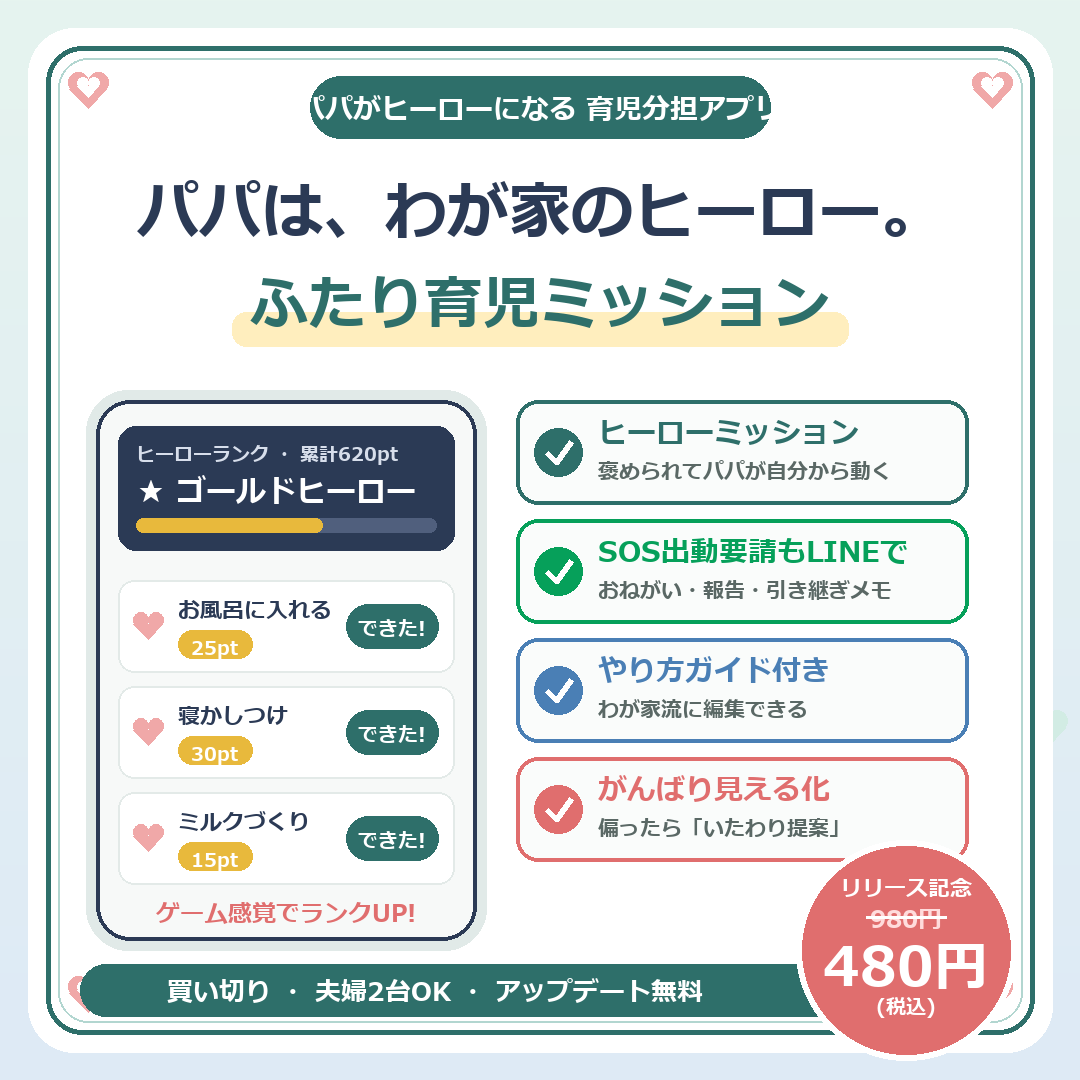
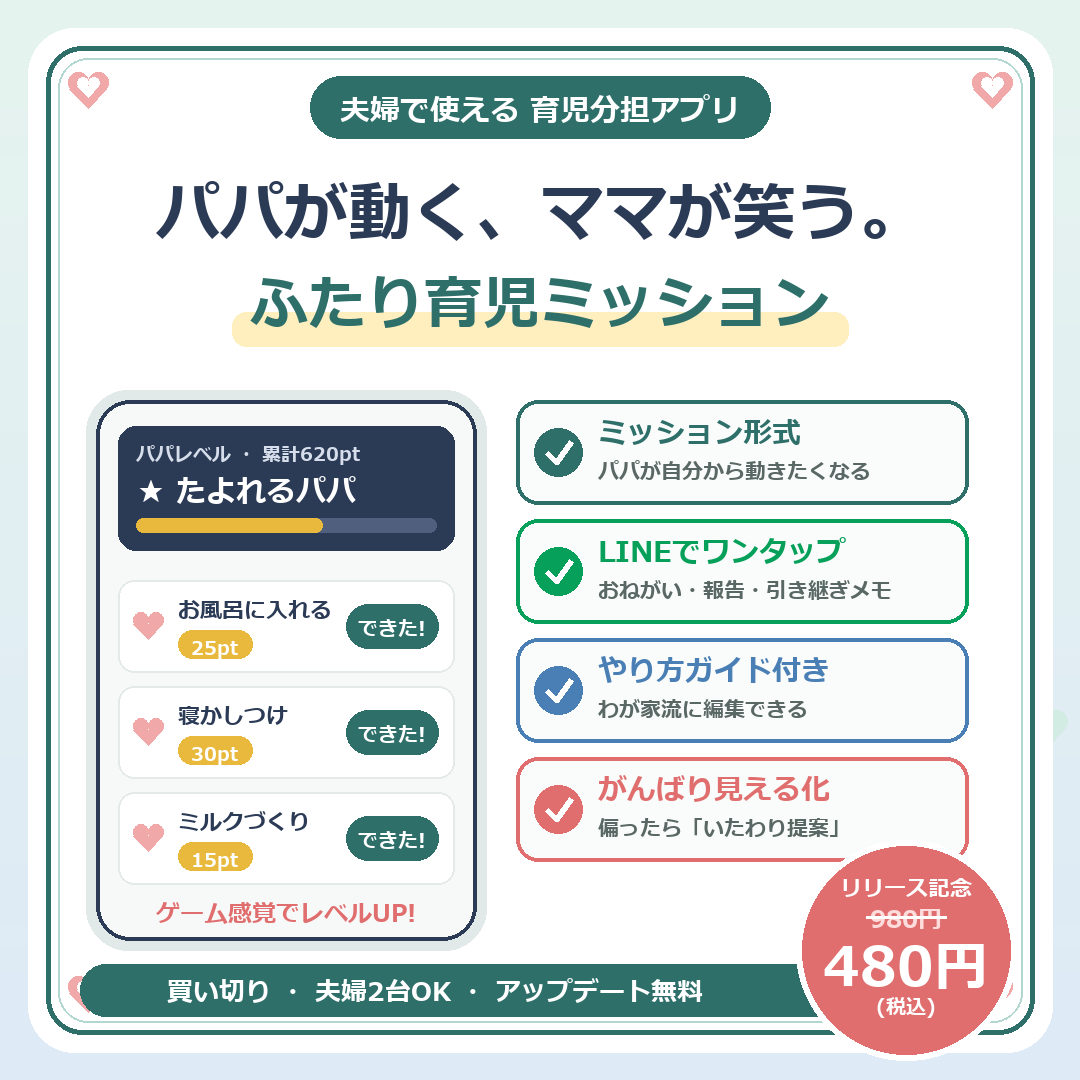
元のコンセプト（パパが動く、ママが笑う）に復元。ヒーロー版は別アプリ「パパヒーロー」として独立（swキャッシュv4）

diff --git a/index.html b/index.html
@@ -4,7 +4,7 @@
 <meta charset="UTF-8">
 <meta name="viewport" content="width=device-width, initial-scale=1.0, viewport-fit=cover">
 <title>ふたり育児ミッション</title>
-<meta name="description" content="夫婦で育児を分担するミッションアプリ。パパは、わが家のヒーロー。">
+<meta name="description" content="夫婦で育児を分担するミッションアプリ。パパが動く、ママが笑う。">
 <link rel="manifest" href="manifest.json">
 <link rel="apple-touch-icon" href="apple-touch-icon.png">
 <meta name="theme-color" content="#2e6f6a">
@@ -46,8 +46,6 @@ nav button.on{color:var(--teal)}
 /* mission */
 .level-card{background:linear-gradient(135deg,var(--navy),#3d5378);color:#fff;border-radius:var(--radius);padding:18px;margin-bottom:14px;position:relative;overflow:hidden}
 .level-card.mama-theme{background:linear-gradient(135deg,#b56a6a,#d18f8f)}
-.level-card.hero-theme{background:linear-gradient(135deg,#1f3d75,#4a7fb5)}
-.level-card.hero-theme::after{content:'🦸';position:absolute;right:6px;bottom:-8px;font-size:64px;opacity:.16}
 .level-title{font-size:12px;opacity:.85}
 .level-name{font-size:21px;font-weight:900;margin:2px 0 8px}
 .level-bar{background:rgba(255,255,255,.25);border-radius:999px;height:10px;overflow:hidden}
@@ -131,12 +129,12 @@ input::placeholder{font-size:13px;color:#b3c0bd}
 <div id="setup" class="hidden">
   <div class="inner">
     <h1>🤝 ふたり育児ミッション</h1>
-    <p class="sub" style="text-align:center">パパは、わが家のヒーロー。<br>まずはあなたのことを教えてね</p>
+    <p class="sub" style="text-align:center">パパが動く、ママが笑う。<br>まずはあなたのことを教えてね</p>
     <div class="card" style="margin-top:20px">
       <h2>あなたはどっち?</h2>
       <div class="role-pick">
         <button id="pick-mama" onclick="pickRole('mama')"><span class="big">👩</span>ママ</button>
-        <button id="pick-papa" onclick="pickRole('papa')"><span class="big">🦸</span>パパ</button>
+        <button id="pick-papa" onclick="pickRole('papa')"><span class="big">👨</span>パパ</button>
       </div>
       <div class="form-row"><label>赤ちゃんの呼び名(任意)</label><input type="text" id="setup-baby" placeholder="例：ここちゃん"></div>
       <button class="btn btn-primary" style="width:100%;margin-top:6px" onclick="finishSetup()">はじめる!</button>
@@ -254,7 +252,7 @@ input::placeholder{font-size:13px;color:#b3c0bd}
   <div class="card">
     <h2>👤 あなたの設定</h2>
     <div class="memo-row"><label>役割</label>
-      <select id="set-role"><option value="mama">👩 ママ</option><option value="papa">🦸 パパ(ヒーロー)</option></select>
+      <select id="set-role"><option value="mama">👩 ママ</option><option value="papa">👨 パパ</option></select>
     </div>
     <div class="memo-row"><label>赤ちゃん</label><input type="text" id="set-baby" placeholder="呼び名"></div>
     <button class="btn btn-primary btn-sm" onclick="saveSettings()">保存する</button>
@@ -316,17 +314,13 @@ const DEFAULT_TASKS=[
  {id:'kaimono',emoji:'🛒',name:'買い出し',pt:15,steps:['出る前に「他に必要なものある?」と一言聞く','おむつのサイズを写真で撮っておくと間違えない','ミルクの銘柄も要チェック(メーカー違いに注意)'],tip:'頼まれたもの+ちょっとしたおやつを買って帰ると株が上がる',ng:'サイズ・銘柄の自己判断はNG。迷ったら写真を送って確認'},
  {id:'soji',emoji:'🧹',name:'そうじ・片づけ',pt:15,steps:['赤ちゃんが動き回る床を最優先','おもちゃの消毒・拭きあげ','ほこりは赤ちゃんの高さ(床上30cm)にたまりやすい'],tip:'完璧じゃなくていい。「床に物がない」だけで大成功',ng:''}
 ];
-const LEVELS_MAMA=[
+const LEVELS=[
  {pt:0,name:'見習い',emoji:'🐣'},{pt:100,name:'かけだし',emoji:'🐥'},{pt:300,name:'いちにんまえ',emoji:'💪'},
  {pt:600,name:'たよれる',emoji:'⭐'},{pt:1000,name:'スーパー',emoji:'🌟'},{pt:1500,name:'カリスマ',emoji:'👑'},{pt:2500,name:'レジェンド',emoji:'🏆'}
 ];
-const LEVELS_PAPA=[
- {pt:0,name:'ルーキーヒーロー',emoji:'🦸'},{pt:100,name:'ブロンズヒーロー',emoji:'🥉'},{pt:300,name:'シルバーヒーロー',emoji:'🥈'},
- {pt:600,name:'ゴールドヒーロー',emoji:'🥇'},{pt:1000,name:'プラチナヒーロー',emoji:'🌟'},{pt:1500,name:'カリスマヒーロー',emoji:'👑'},{pt:2500,name:'レジェンドヒーロー',emoji:'🏆'}
-];
 const THANKS_STAMPS=[
  {e:'🙏',t:'ありがとう!助かった〜'},{e:'💮',t:'今日ほんとお疲れさま!'},{e:'😍',t:'さすがすぎる!!'},
- {e:'☕',t:'ゆっくり休んでね'},{e:'🍀',t:'いつも本当に感謝してる'},{e:'🦸',t:'うちのヒーロー、さすが!'}
+ {e:'☕',t:'ゆっくり休んでね'},{e:'🍀',t:'いつも本当に感謝してる'},{e:'🎉',t:'ナイスミッションクリア!'}
 ];
 const ITAWARI=[
  '帰りにコンビニスイーツを買ってきてあげよう🍰',
@@ -382,9 +376,7 @@ function lineShare(text){
 /* ---------- today ---------- */
 function renderToday(){
   const h=new Date().getHours();
-  const g=D.role==='papa'
-    ?(h<5?'真夜中の出動、さすがヒーロー🌙':h<11?'おはよう、ヒーロー!きょうも家族を守ろう🦸':h<17?'こんにちは!ヒーローの活躍、家族が待ってるよ⚡':'おかえり、ヒーロー!ここからが見せ場だ🔥')
-    :(h<5?'よなかの育児、おつかれさま🌙':h<11?'おはよう!きょうもふたりで乗り切ろう☀️':h<17?'こんにちは!ここまでおつかれさま🍵':'今日もおつかれさま🌆');
+  const g=h<5?'よなかの育児、おつかれさま🌙':h<11?'おはよう!きょうもふたりで乗り切ろう☀️':h<17?'こんにちは!ここまでおつかれさま🍵':'今日もおつかれさま🌆';
   document.getElementById('greeting').textContent=g;
   const w=['日','月','火','水','木','金','土'];const n=new Date();
   document.getElementById('today-date').textContent=`${n.getMonth()+1}月${n.getDate()}日(${w[n.getDay()]})`+(D.baby?` ・ ${D.baby}とすごす1日`:'');
@@ -434,31 +426,22 @@ function sendMemo(){
 function totalPts(role){
   let s=0;Object.values(D.days).forEach(d=>d.done.forEach(x=>{if(x.by===role)s+=x.pt;}));return s;
 }
-function levelOf(pt,role){
-  const L=role==='papa'?LEVELS_PAPA:LEVELS_MAMA;
-  let lv=L[0],next=null;
-  for(let i=0;i<L.length;i++){if(pt>=L[i].pt){lv=L[i];next=L[i+1]||null;}}
+function levelOf(pt){
+  let lv=LEVELS[0],next=null;
+  for(let i=0;i<LEVELS.length;i++){if(pt>=LEVELS[i].pt){lv=LEVELS[i];next=LEVELS[i+1]||null;}}
   return {lv,next};
 }
 function renderMission(){
   const pt=totalPts(D.role);
-  const {lv,next}=levelOf(pt,D.role);
+  const {lv,next}=levelOf(pt);
   const rn=roleName(D.role);
-  const papa=D.role==='papa';
   const card=document.getElementById('level-card');
   card.classList.toggle('mama-theme',D.role==='mama');
-  card.classList.toggle('hero-theme',papa);
-  document.getElementById('level-title-label').textContent=papa?`ヒーローランク ・ 累計${pt}pt`:`${rn}レベル ・ 累計${pt}pt`;
-  document.getElementById('level-name').textContent=papa?`${lv.emoji} ${lv.name}`:`${lv.emoji} ${lv.name}${rn}`;
+  document.getElementById('level-title-label').textContent=`${rn}レベル ・ 累計${pt}pt`;
+  document.getElementById('level-name').textContent=`${lv.emoji} ${lv.name}${rn}`;
   const prog=next?Math.min(100,Math.round((pt-lv.pt)/(next.pt-lv.pt)*100)):100;
   document.getElementById('level-bar-fill').style.width=prog+'%';
-  document.getElementById('level-pts').textContent=next
-    ?(papa?`つぎの「${next.emoji} ${next.name}」まで あと${next.pt-pt}pt`:`つぎの「${next.emoji} ${next.name}${rn}」まで あと${next.pt-pt}pt`)
-    :(papa?'最高ランク到達!殿堂入りヒーロー!🏆':'最高レベル到達!すごすぎる!🎉');
-  document.getElementById('mission-list-title').textContent=papa?'🦸 きょうのヒーローミッション':'🎯 きょうのミッション';
-  document.querySelector('#report-card h2').textContent=papa?'🦸 きょうの活躍を報告':'💪 やったよ報告';
-  document.querySelector('#request-card h2').textContent=D.role==='mama'?'🚨 ヒーロー出動要請を送る':'📨 おねがいミッションを送る';
-  document.querySelector('#request-card .section-note').textContent=D.role==='mama'?'おねがいしたいことにチェックして、LINEでヒーローを呼ぼう。':'おねがいしたいことにチェックして、LINEで送ろう。';
+  document.getElementById('level-pts').textContent=next?`つぎの「${next.emoji} ${next.name}${rn}」まで あと${next.pt-pt}pt`:'最高レベル到達!すごすぎる!🎉';
 
   const dd=day();
   const doneIds=dd.done.filter(x=>x.by===D.role).map(x=>x.taskId);
@@ -473,9 +456,7 @@ function renderMission(){
   }).join('');
 
   const myPtToday=dd.done.filter(x=>x.by===D.role).reduce((s,x)=>s+x.pt,0);
-  document.getElementById('report-note').textContent=papa
-    ?`きょうのヒーロー活動:${dd.done.filter(x=>x.by===D.role).length}ミッション・${myPtToday}pt`
-    :`きょうの${rn}の実績:${dd.done.filter(x=>x.by===D.role).length}ミッション・${myPtToday}pt`;
+  document.getElementById('report-note').textContent=`きょうの${rn}の実績:${dd.done.filter(x=>x.by===D.role).length}ミッション・${myPtToday}pt`;
 
   document.getElementById('request-list').innerHTML=D.tasks.map(t=>
     `<div class="task"><input type="checkbox" class="req-check" value="${t.id}"><span class="emoji">${t.emoji}</span><span class="name">${esc(t.name)}</span><span class="pt">${t.pt}pt</span></div>`).join('');
@@ -490,9 +471,7 @@ function completeTask(id){
 }
 function celebrate(t){
   const c=document.getElementById('celebrate');
-  const msgs=D.role==='papa'
-    ?['ヒーロー参上!🦸','ママを救った!','家族を守った!','さすがヒーロー!','神ってる!']
-    :['ミッションクリア!','ナイス!','さすが!','神対応!','最高!'];
+  const msgs=['ミッションクリア!','ナイス!','さすが!','神対応!','最高!'];
   c.innerHTML=`<div class="box"><div class="big">${t.emoji}</div><div class="msg">${msgs[Math.floor(Math.random()*msgs.length)]}</div><div class="pt">+${t.pt}pt ゲット!</div></div>`;
   c.classList.remove('hidden');
   setTimeout(()=>c.classList.add('hidden'),1400);
@@ -502,18 +481,17 @@ function sendReport(){
   const mine=dd.done.filter(x=>x.by===D.role);
   if(!mine.length){toast('まだきょうの実績がないよ');return;}
   const pt=mine.reduce((s,x)=>s+x.pt,0);
-  const papa=D.role==='papa';
-  const lines=[papa?'🦸 ヒーローパパ、本日の活動報告!':'💪 ママのミッション完了報告!'];
+  const lines=[`💪 ${roleName(D.role)}のミッション完了報告!`];
   mine.forEach(x=>{const t=D.tasks.find(t=>t.id===x.taskId);lines.push(`✅ ${t?t.emoji+' '+t.name:x.taskId}(${x.time})`);});
-  lines.push(papa?`合計 ${pt}pt ゲット🎉 今日も家族を守りました🔥`:`合計 ${pt}pt ゲット🎉`);
+  lines.push(`合計 ${pt}pt ゲット🎉`);
   lineShare(lines.join('\n'));
 }
 function sendRequest(){
   const ids=[...document.querySelectorAll('.req-check:checked')].map(c=>c.value);
   if(!ids.length){toast('おねがいしたいことにチェックしてね');return;}
-  const lines=[D.role==='mama'?'🚨 SOS! ヒーローパパ、出動おねがい!':'🎯 きょうのおねがいミッション!'];
+  const lines=['🎯 きょうのおねがいミッション!'];
   ids.forEach(id=>{const t=D.tasks.find(t=>t.id===id);if(t)lines.push(`・${t.emoji} ${t.name}(${t.pt}pt)`);});
-  lines.push(D.role==='mama'?'ヒーローの活躍、待ってるね🦸✨':'よろしくおねがいします🙏✨');
+  lines.push('よろしくおねがいします🙏✨');
   lineShare(lines.join('\n'));
 }
 
@@ -617,13 +595,8 @@ function renderRecord(){
       const hard=pm>pp?'ママ':'パパ';const easy=pm>pp?'パパ':'ママ';
       const idea=ITAWARI[Math.floor(Math.random()*ITAWARI.length)];
       txt.textContent=`この1週間は${hard}のがんばりが多めみたい。`;
-      if(hard==='ママ'){
-        box.innerHTML=`<div class="itawari">🚨 <b>ヒーロー緊急ミッション!</b><br>今週はママが多めにがんばってる。ヒーローパパ、出動のとき——<br><b>${esc(idea)}</b>
-          <button class="btn btn-line btn-sm" style="margin-top:10px;width:100%" onclick="sendItawari('${hard}','${esc(idea)}')">💬 LINEで緊急ミッションを送る</button></div>`;
-      }else{
-        box.innerHTML=`<div class="itawari">💐 <b>いたわりタイム!</b><br>今週はヒーローパパが大活躍!ママから——<br><b>${esc(idea)}</b>
-          <button class="btn btn-line btn-sm" style="margin-top:10px;width:100%" onclick="sendItawari('${hard}','${esc(idea)}')">💬 LINEでいたわりミッションを送る</button></div>`;
-      }
+      box.innerHTML=`<div class="itawari">💐 <b>いたわりタイム!</b><br>${easy}さん、${hard}さんに——<br><b>${esc(idea)}</b>
+        <button class="btn btn-line btn-sm" style="margin-top:10px;width:100%" onclick="sendItawari('${hard}','${esc(idea)}')">💬 LINEでいたわりミッションを送る</button></div>`;
     }else{
       txt.textContent='いいバランス!ふたりで支え合えてるね👏';
       box.innerHTML='<div class="itawari">🌈 <b>すばらしいチームワーク!</b><br>この調子でおたがいに「ありがとう」を忘れずに♪</div>';
@@ -637,11 +610,7 @@ function renderRecord(){
     `<div class="done-log"><span>${esc(t.text)}</span><span style="display:flex;gap:6px;align-items:center"><span class="tag ${t.from}">${roleName(t.from)}</span><span class="sub">${t.date.slice(5).replace('-','/')}</span></span></div>`).join('');
 }
 function sendItawari(hard,idea){
-  if(hard==='ママ'){
-    lineShare(`🚨 ヒーロー緊急ミッション発動!\n今週はママががんばってくれたから…\n「${idea}」\nヒーローパパの出番だよ🦸✨`);
-  }else{
-    lineShare(`💐 いたわりミッション発動!\n今週はヒーローパパが大活躍だったから…\n「${idea}」\nいつも守ってくれてありがとう🤝`);
-  }
+  lineShare(`💐 いたわりミッション発動!\n今週は${hard}ががんばってくれたから…\n「${idea}」\nおたがいさまで支え合おうね🤝`);
 }
 
 /* ---------- settings ---------- */
@@ -688,7 +657,7 @@ function toast(msg){
   toastTimer=setTimeout(()=>t.classList.remove('show'),2200);
 }
 function renderAll(){
-  document.getElementById('role-badge').textContent=D.role==='mama'?'👩 ママモード':'🦸 ヒーローパパモード';
+  document.getElementById('role-badge').textContent=(D.role==='mama'?'👩 ママ':'👨 パパ')+'モード';
   renderToday();renderMission();renderGuide();renderRecord();renderSettings();
 }
 

diff --git a/lp.html b/lp.html
@@ -3,8 +3,8 @@
 <head>
 <meta charset="UTF-8">
 <meta name="viewport" content="width=device-width, initial-scale=1.0">
-<title>ふたり育児ミッション｜パパは、わが家のヒーロー。夫婦の育児分担アプリ</title>
-<meta name="description" content="「言わないと動いてくれない…」を卒業。ミッションをクリアするたびパパが『家族を守るヒーロー』になる、夫婦の育児分担アプリ。買い切り、インストール不要。">
+<title>ふたり育児ミッション｜パパが動く、ママが笑う。夫婦の育児分担アプリ</title>
+<meta name="description" content="「言わないと動いてくれない…」を卒業。ミッション形式でパパが自分から動きたくなる、夫婦の育児分担アプリ。買い切り、インストール不要。">
 <link rel="preconnect" href="https://fonts.googleapis.com">
 <link href="https://fonts.googleapis.com/css2?family=Zen+Maru+Gothic:wght@400;500;700;900&display=swap" rel="stylesheet">
 <style>
@@ -75,13 +75,13 @@ footer{text-align:center;padding:34px 0 46px;color:var(--sub);font-size:11.5px}
 
 <div class="hero">
   <div class="wrap">
-    <span class="badge">🦸 パパがヒーローになる育児分担アプリ</span>
-    <h1>パパは、わが家の<br>ヒーロー。</h1>
-    <p class="sub">「言わないと動いてくれない…」を卒業。<br>ミッションをクリアするたび、パパが<b>家族を守るヒーロー</b>に。<br>責めるより、持ち上げる。だからパパが自分から動く。</p>
+    <span class="badge">👨👩👧 夫婦の育児分担アプリ</span>
+    <h1>パパが動く、<br>ママが笑う。</h1>
+    <p class="sub">「言わないと動いてくれない…」を卒業。<br>ミッション形式だから、パパが<b>自分から</b>動きたくなる。</p>
     <div class="phone">
       <div class="bar">
-        <div class="t">ヒーローランク ・ 累計620pt</div>
-        <div class="n">🥇 ゴールドヒーロー</div>
+        <div class="t">パパレベル ・ 累計620pt</div>
+        <div class="n">⭐ たよれるパパ</div>
         <div class="pbar"><div></div></div>
       </div>
       <div class="mrow">🛁 お風呂に入れる <span class="pt">25pt</span> <span class="go">できた!</span></div>
@@ -104,8 +104,7 @@ footer{text-align:center;padding:34px 0 46px;color:var(--sub);font-size:11.5px}
       <li>パパも「何をすればいいか分からない」と言う</li>
       <li>ケンカじゃなくて、チームになりたい</li>
     </ul>
-    <p class="arrow-msg">▼ その悩み、パパを「ヒーロー」にすれば解決できます</p>
-    <p style="text-align:center;font-size:13.5px;margin-top:14px">パパだって、お仕事も育児もがんばってる。<br>だから「やってよ」じゃなくて——<b>「ヒーロー、出番だよ」</b>。<br>持ち上げられたパパは、びっくりするほど動きます。</p>
+    <p class="arrow-msg">▼ その悩み、「ミッション化」で解決できます</p>
   </div>
 </section>
 
@@ -113,10 +112,10 @@ footer{text-align:center;padding:34px 0 46px;color:var(--sub);font-size:11.5px}
   <div class="wrap fade">
     <h2>6つの機能で、育児がチーム戦に</h2>
     <p class="lead">夫婦それぞれのスマホで使えます</p>
-    <div class="feat"><span class="ic">🦸</span><div><h3>パパが「ヒーロー」に育つミッション形式</h3><p>「お風呂25pt」「寝かしつけ30pt」——クリアするとポイントが貯まってランクアップ。ルーキーヒーロー→レジェンドヒーローへ。「ママを救った!」の演出つきで、褒められたパパはもっと動く!</p></div></div>
-    <div class="feat"><span class="ic">🚨</span><div><h3>「SOS!ヒーロー出動要請」をLINEでワンタップ</h3><p>おねがいしたいことにチェックして送るだけで、「やってよ」が「ヒーロー、出番だよ」に変わる。パパからは「本日の活動報告」がワンタップで返せる。</p></div></div>
+    <div class="feat"><span class="ic">🎯</span><div><h3>ミッション形式のタスク分担</h3><p>「お風呂25pt」「寝かしつけ30pt」——タスクをクリアするとポイントが貯まってレベルアップ。見習いパパ→レジェンドパパへ。ゲーム感覚だから続く!</p></div></div>
+    <div class="feat"><span class="ic">💬</span><div><h3>おねがい・報告はLINEでワンタップ</h3><p>おねがいしたいことにチェックして送信ボタンを押すだけで、LINEにきれいな「おねがいミッション」が届く。パパからは「やったよ報告」がワンタップで返せる。</p></div></div>
     <div class="feat"><span class="ic">📖</span><div><h3>わが家流に編集できる「やり方ガイド」</h3><p>ミルクの作り方、お風呂の手順、NGポイントまで最初から入ってる。しかも全部編集OK。「うちはこうする」を書いておけば、説明いらず。</p></div></div>
-    <div class="feat"><span class="ic">⚖️</span><div><h3>がんばりの見える化＆ヒーロー緊急ミッション</h3><p>1週間のがんばりをグラフとバランスバーで表示。ママに偏ったら「スイーツ買ってきてあげよう🍰」などの緊急ミッションが自動発動。責めずに、笑ってバランスが戻る。</p></div></div>
+    <div class="feat"><span class="ic">⚖️</span><div><h3>がんばりの見える化＆いたわり提案</h3><p>1週間のがんばりをグラフとバランスバーで表示。偏りが出たら「代わりにスイーツ買ってきてあげよう🍰」など、いたわりミッションを自動提案。</p></div></div>
     <div class="feat"><span class="ic">👶</span><div><h3>赤ちゃん引き継ぎメモ</h3><p>最後のミルク・ねんね・きげんをメモしてLINEでパッと共有。「ミルク何時だっけ?」の聞き直しがなくなる交代のお守り。</p></div></div>
     <div class="feat"><span class="ic">💝</span><div><h3>ありがとうスタンプ</h3><p>「助かった〜!」「さすがすぎる!」をワンタップでLINEへ。感謝の履歴も貯まっていくから、ふたりのがんばりが形に残る。</p></div></div>
   </div>
@@ -126,8 +125,8 @@ footer{text-align:center;padding:34px 0 46px;color:var(--sub);font-size:11.5px}
   <div class="wrap fade">
     <h2>使い方はかんたん3ステップ</h2>
     <p class="lead">アプリストア不要。ブラウザで開くだけ</p>
-    <div class="step"><span class="num">1</span><div><h3>ふたりのスマホでリンクを開く</h3><p>購入後に届くリンクをそれぞれのスマホで開いて、ホーム画面に追加。ママは「ママモード」、パパは「ヒーローパパモード」を選ぶだけ。</p></div></div>
-    <div class="step"><span class="num">2</span><div><h3>ママはSOS、パパはヒーロー出動</h3><p>ママはチェックしてLINEで出動要請。パパは「できた!」で「ママを救った!」の演出&ポイントゲット。報告もLINEでワンタップ。</p></div></div>
+    <div class="step"><span class="num">1</span><div><h3>ふたりのスマホでリンクを開く</h3><p>購入後に届くリンクをそれぞれのスマホで開いて、ホーム画面に追加。ママは「ママモード」、パパは「パパモード」を選ぶだけ。</p></div></div>
+    <div class="step"><span class="num">2</span><div><h3>ママはおねがい、パパはミッションクリア</h3><p>ママはチェックしてLINEでおねがい。パパは「できた!」でポイントゲット&報告もLINEでワンタップ。</p></div></div>
     <div class="step"><span class="num">3</span><div><h3>週末はグラフを見ながら「ありがとう」</h3><p>がんばりバランスを見て、いたわりミッションで労い合う。ケンカが減って、チームになっていく。</p></div></div>
   </div>
 </section>
@@ -136,8 +135,8 @@ footer{text-align:center;padding:34px 0 46px;color:var(--sub);font-size:11.5px}
   <div class="wrap fade">
     <h2>使ったご夫婦の声</h2>
     <p class="lead">※サンプルイメージ・個人の感想です</p>
-    <div class="voice"><span class="stars">★★★★★</span><br>「『ヒーロー、出番だよ』と送るだけで夫が自分からお風呂に入れてくれるように。お願いするのが気まずくなくなりました」<div class="who">30代ママ・生後4ヶ月</div></div>
-    <div class="voice"><span class="stars">★★★★★</span><br>「正直、何をすればいいか分からなかった。ミッションをクリアすると『ママを救った!』と褒めてくれるのが単純にうれしくて、育児が楽しくなった」<div class="who">30代パパ・生後7ヶ月</div></div>
+    <div class="voice"><span class="stars">★★★★★</span><br>「レベルアップが楽しいらしく、夫が自分からお風呂に入れてくれるように。『言わせないで』のストレスが減りました」<div class="who">30代ママ・生後4ヶ月</div></div>
+    <div class="voice"><span class="stars">★★★★★</span><br>「正直、何をすればいいか分からなかった。やり方ガイドのおかげで『自分でもできる』が増えて、育児が楽しくなった」<div class="who">30代パパ・生後7ヶ月</div></div>
     <div class="voice"><span class="stars">★★★★☆</span><br>「バランスバーで偏りが見えるのがいい。感情的にならずに『今週お願いね』と言えるようになりました」<div class="who">20代ママ・1歳</div></div>
   </div>
 </section>
@@ -168,8 +167,8 @@ footer{text-align:center;padding:34px 0 46px;color:var(--sub);font-size:11.5px}
 
 <section>
   <div class="wrap fade" style="text-align:center">
-    <h2>パパを責めるより、<br>ヒーローにしよう。</h2>
-    <p style="margin:10px 0 26px">「私ばっかり」から「うちのヒーローすごい」へ。<br>今日から、最強のチームになりませんか?</p>
+    <h2>育児は、ふたりのミッション。</h2>
+    <p style="margin:10px 0 26px">「私ばっかり」から「ふたりで」へ。<br>今日から、チームになりませんか?</p>
     <a class="cta buy-btn" href="#" style="max-width:360px;margin:0 auto">リリース記念 480円ではじめる<small>買い切り・夫婦2台OK・アップデート無料</small></a>
   </div>
 </section>

diff --git a/sw.js b/sw.js
@@ -1,4 +1,4 @@
-const CACHE = 'futari-v3';
+const CACHE = 'futari-v4';
 const ASSETS = [
   './',
   './index.html',